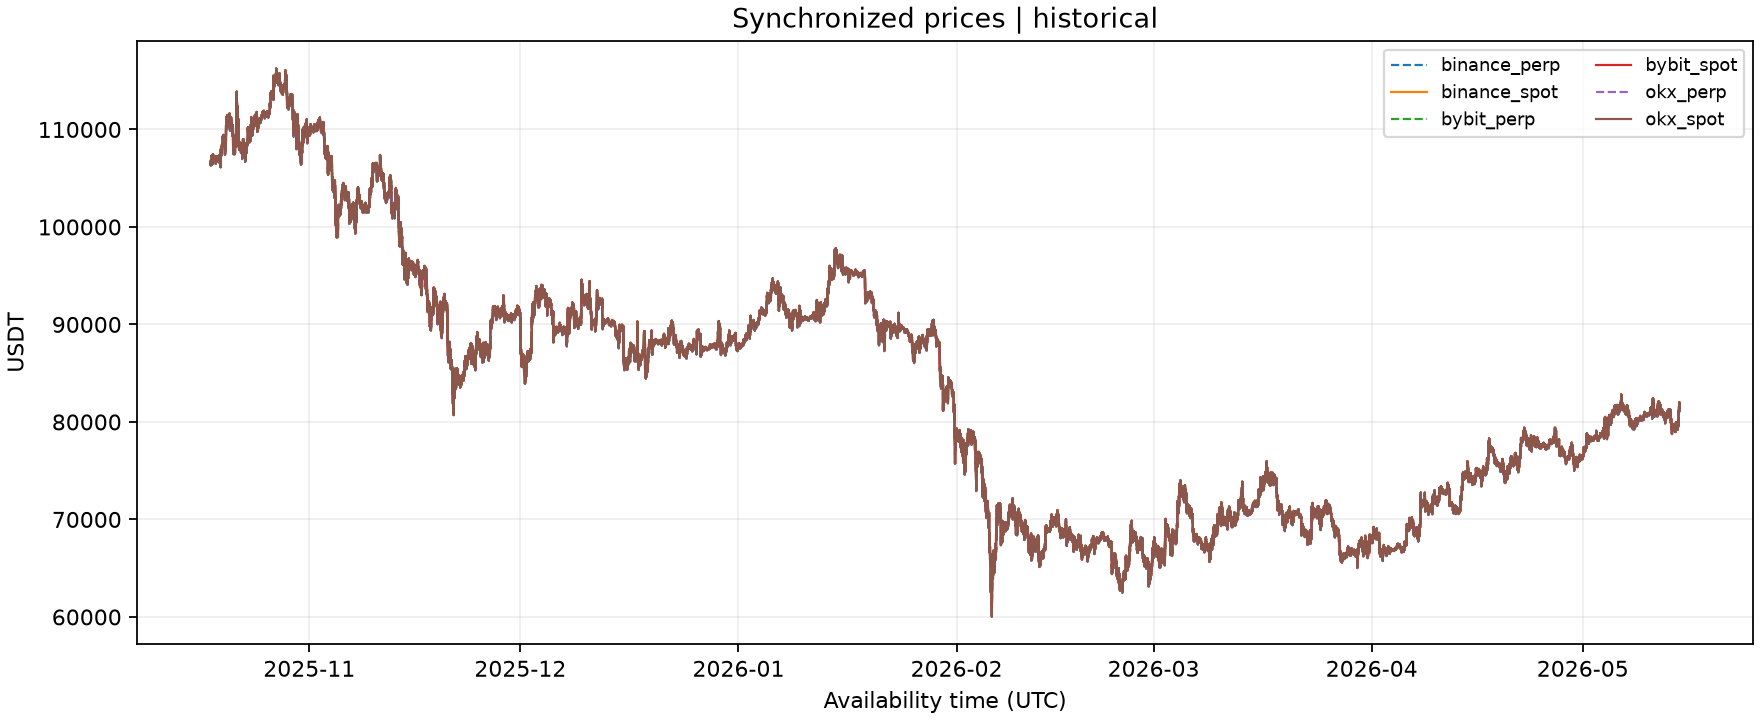
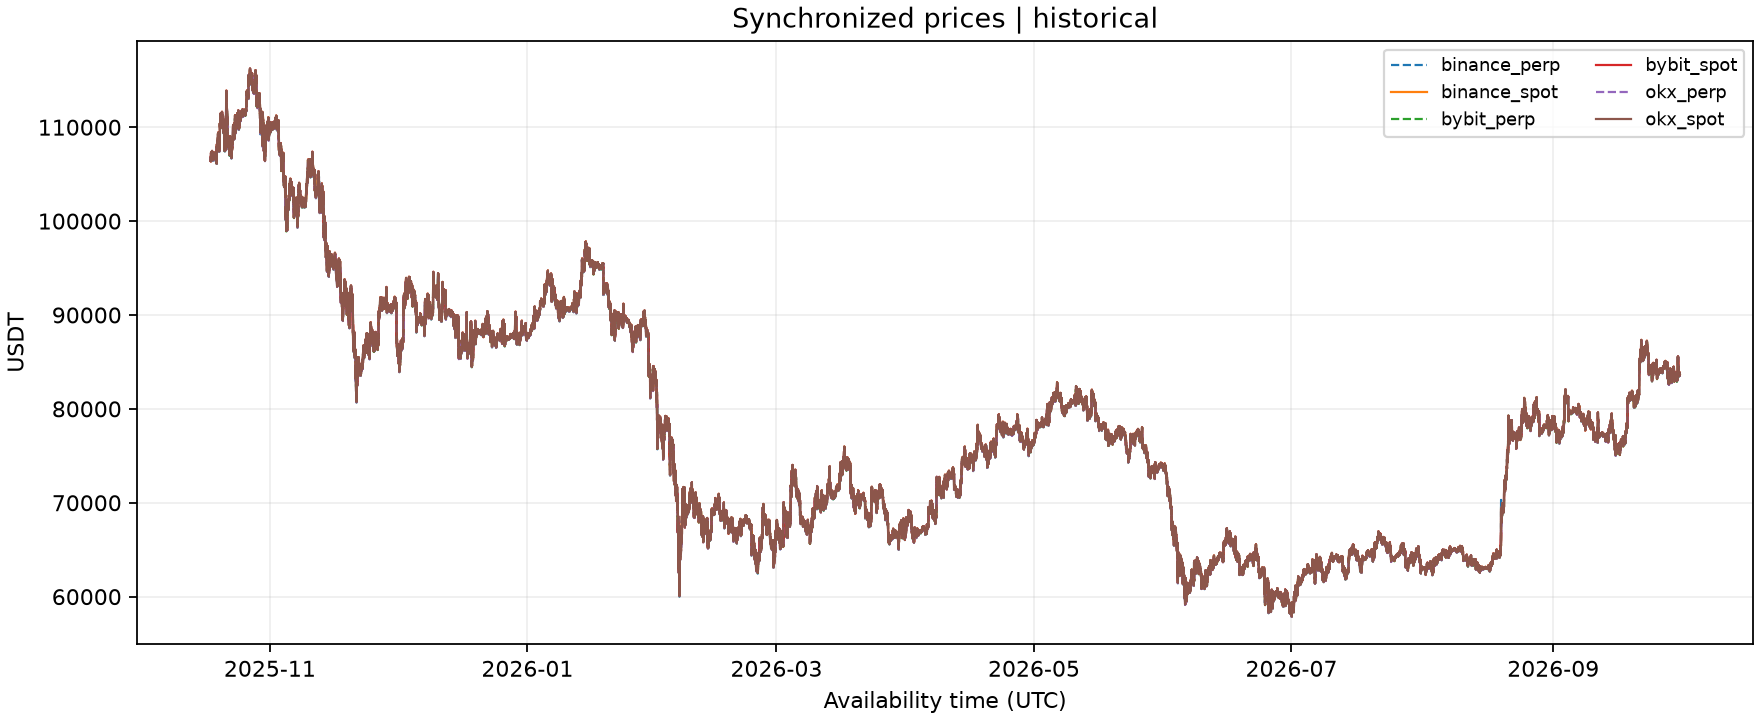
feat(tv2): add C2.05 synchronized price figures

diff --git a/notebooks/tv2/plot_c2_05.py b/notebooks/tv2/plot_c2_05.py
@@ -1,0 +1,91 @@
+"""Generate TV2 C2.05 figures F1 and F2 from a synchronized D3 panel."""
+from __future__ import annotations
+
+import argparse
+from pathlib import Path
+
+import pandas as pd
+
+from notebooks.templates.plot_template import plot_prices
+from src.utils.io_utils import read_parquet
+from src.utils.pipeline_stages import validate_output_location
+from src.utils.schema import data_kind, validate_frame, venues_from_panel
+
+ROOT = Path(__file__).resolve().parents[2]
+
+
+def dispersion_bps(panel: pd.DataFrame, market_type: str) -> pd.Series | None:
+    """Return cross-venue range / mean in bps for one market type.
+
+    A timestamp is included only when every venue of the requested market type
+    has a price. Return None if fewer than two venues are available.
+    """
+    if market_type not in {"spot", "perp"}:
+        raise ValueError("market_type must be 'spot' or 'perp'")
+
+    venues = [v for v in venues_from_panel(panel) if v.endswith(f"_{market_type}")]
+    if len(venues) < 2:
+        return None
+
+    prices = panel[[f"close__{venue}" for venue in venues]]
+    dispersion = (prices.max(axis=1) - prices.min(axis=1)) / prices.mean(axis=1) * 10_000
+    return dispersion.where(prices.notna().all(axis=1)).rename(f"dispersion_bps_{market_type}")
+
+
+def plot_dispersion_bps(panel: pd.DataFrame, out_path: Path) -> Path:
+    """F2: plot spot and perp cross-venue price dispersion in bps."""
+    import matplotlib.pyplot as plt
+
+    validate_frame(panel, "D3")
+    kind = data_kind(panel)
+    fig, axes = plt.subplots(2, 1, figsize=(11, 7), sharex=True, layout="constrained")
+    plotted = False
+    for ax, (market_type, linestyle) in zip(axes, (("spot", "-"), ("perp", "--"))):
+        series = dispersion_bps(panel, market_type)
+        if series is None:
+            ax.text(0.5, 0.5, f"Fewer than two {market_type} venues", ha="center", va="center",
+                    transform=ax.transAxes)
+            continue
+        ax.plot(panel.index, series, linestyle=linestyle, linewidth=1, label=market_type)
+        ax.legend(title="Market type")
+        ax.grid(alpha=0.2)
+        plotted = True
+
+    if not plotted:
+        plt.close(fig)
+        raise ValueError("F2 requires at least two venues in spot or perp")
+
+    axes[0].set_title(f"Cross-exchange price dispersion | {kind}")
+    axes[0].set_ylabel("Spot dispersion (bps)")
+    axes[1].set_ylabel("Perpetual dispersion (bps)")
+    axes[1].set_xlabel("Availability time (UTC)")
+    output = Path(out_path)
+    output.parent.mkdir(parents=True, exist_ok=True)
+    fig.savefig(output, dpi=160)
+    plt.close(fig)
+    return output
+
+
+def main(argv=None):
+    parser = argparse.ArgumentParser(description=__doc__)
+    parser.add_argument("--panel", type=Path, default=ROOT / "data/processed/panel_1m_wide.parquet")
+    parser.add_argument("--out-dir", type=Path, help="Figure directory; default depends on panel provenance")
+    args = parser.parse_args(argv)
+
+    panel = read_parquet(args.panel, "D3")
+    kind = data_kind(panel)
+    output_dir = args.out_dir or (
+        ROOT / "outputs/synthetic/figures" if kind == "synthetic" else ROOT / "outputs/figures"
+    )
+    validate_output_location(
+        output_dir,
+        root=ROOT,
+        mode="synthetic" if kind == "synthetic" else "historical",
+    )
+    f1 = plot_prices(panel, output_dir / "F1_synchronized_prices.png")
+    f2 = plot_dispersion_bps(panel, output_dir / "F2_price_dispersion.png")
+    print(f"Generated {f1} and {f2} from {kind} panel ({len(panel):,} rows)")
+
+
+if __name__ == "__main__":
+    main()

diff --git a/tests/test_c2_05.py b/tests/test_c2_05.py
@@ -1,0 +1,67 @@
+import numpy as np
+import pandas as pd
+import pytest
+
+from notebooks.tv2.plot_c2_05 import dispersion_bps, plot_dispersion_bps
+from notebooks.templates.plot_template import plot_prices
+
+
+@pytest.fixture
+def panel():
+    index = pd.date_range("2026-01-01", periods=3, freq="min", tz="UTC").as_unit("ns")
+    index = index.rename("ts_available")
+    values = {
+        "binance_spot": [100.0, 101.0, 102.0],
+        "okx_spot": [102.0, 103.0, 104.0],
+        "binance_perp": [200.0, 202.0, 204.0],
+        "okx_perp": [204.0, 206.0, 208.0],
+    }
+    frame = pd.DataFrame(index=index)
+    for venue, prices in values.items():
+        close = pd.Series(prices, index=index)
+        frame[f"close__{venue}"] = close
+        frame[f"log_close__{venue}"] = np.log(close)
+        frame[f"volume_base__{venue}"] = 1.0
+        frame[f"missing__{venue}"] = False
+    frame.attrs.update(data_kind="synthetic", contract_version="1.0")
+    return frame
+
+
+def test_dispersion_uses_dashboard_formula_separately_by_market(panel):
+    spot = dispersion_bps(panel, "spot")
+    perp = dispersion_bps(panel, "perp")
+
+    assert spot.iloc[0] == pytest.approx((102 - 100) / 101 * 10_000)
+    assert perp.iloc[0] == pytest.approx((204 - 200) / 202 * 10_000)
+    assert spot.name == "dispersion_bps_spot"
+    assert perp.name == "dispersion_bps_perp"
+
+
+def test_dispersion_keeps_missing_when_any_venue_price_is_missing(panel):
+    timestamp = panel.index[1]
+    panel.loc[timestamp, ["close__okx_spot", "log_close__okx_spot", "volume_base__okx_spot"]] = np.nan
+    panel.loc[timestamp, "missing__okx_spot"] = True
+
+    spot = dispersion_bps(panel, "spot")
+
+    assert np.isnan(spot.loc[timestamp])
+    assert np.isfinite(dispersion_bps(panel, "perp").loc[timestamp])
+
+
+def test_dispersion_rejects_mixed_or_unknown_market_type(panel):
+    with pytest.raises(ValueError, match="market_type"):
+        dispersion_bps(panel, "future")
+
+
+def test_f2_plot_is_created(panel, tmp_path):
+    output = plot_dispersion_bps(panel, tmp_path / "F2_price_dispersion.png")
+
+    assert output.is_file()
+    assert output.stat().st_size > 0
+
+
+def test_f1_plot_is_created(panel, tmp_path):
+    output = plot_prices(panel, tmp_path / "F1_synchronized_prices.png")
+
+    assert output.is_file()
+    assert output.stat().st_size > 0
